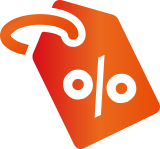
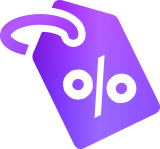
修改样式

diff --git a/mdo-master/src/pages/invitepage/index.vue b/mdo-master/src/pages/invitepage/index.vue
@@ -2,7 +2,7 @@
   <section>
     <div class="title">Earn $SMT </div>
     <ul>
-      <li v-for="(item,index) in inviteList" :key="index" @click='jump(index)'>
+      <li v-for="(item,index) in inviteList" :key="index" @click='jump(index)' :class="`li${index}`">
         <img :src="item.url" alt="" :class="`img${index}`">
         <div class="introduce">
           <h1>{{item.name1}}</h1>
@@ -110,6 +110,18 @@ ul {
   display: flex;
   flex-wrap: wrap;
   justify-content: space-evenly;
+}
+.li0 {
+  background: linear-gradient(0deg, #cde4ff, #eef5ff);
+}
+.li1 {
+  background: linear-gradient(0deg, #cdfff0, #eefeff);
+}
+.li2 {
+  background: linear-gradient(0deg, #fffbcd, #feffee);
+}
+.li3 {
+  background: linear-gradient(0deg, #e0cdff, #faeeff);
 }
 .img0 {
   width: 206 / @p;
